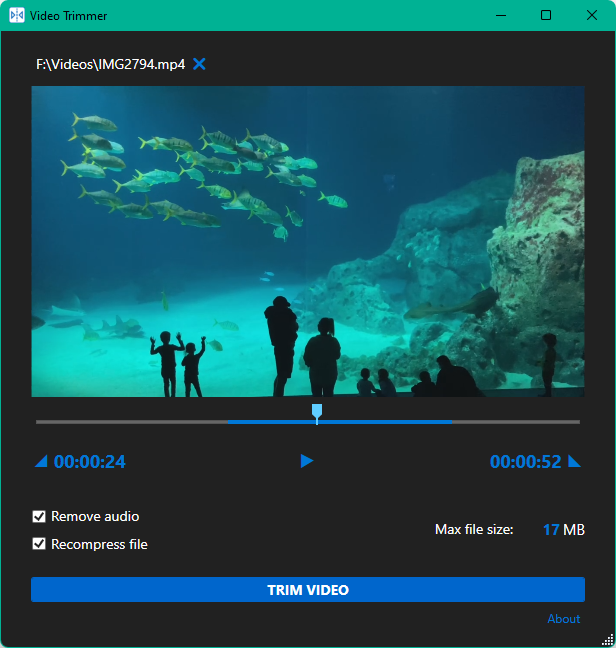
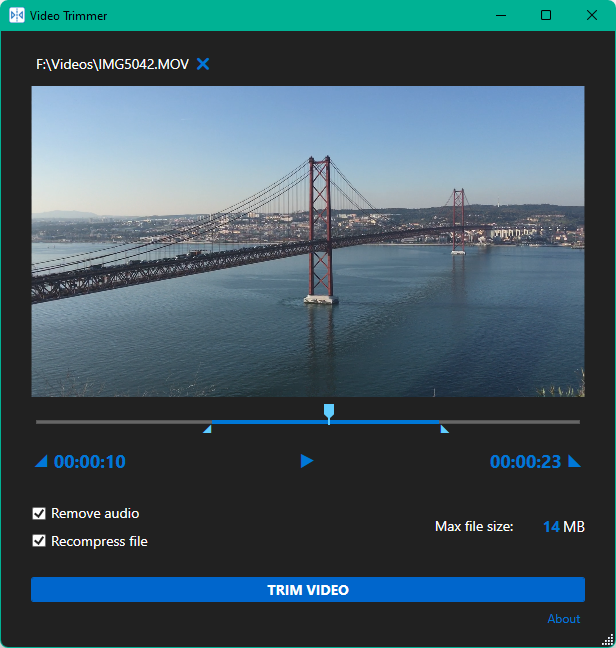
Updated changelog, features and screenshots after the release of 1.1.1. Added a new page with Keyboard Shortcuts

diff --git a/current_version.php b/current_version.php
@@ -1,1 +1,1 @@
-1.1.0
+1.1.1

diff --git a/documentation/overview/using_the_app.md b/documentation/overview/using_the_app.md
@@ -1,7 +1,7 @@
 # Using the App
 
 ## Prerequisites
-In order to run the app, the `FFmpeg.exe` file needs to be placed in the same directory as `VideoTrimmer.exe`. If you don't have `FFmpeg.exe`, you can download it from https://ffmpeg.org.
+In order to manipulate videos, Video Trimmer uses the [FFmpeg](https://ffmpeg.org) library. Video Trimmer will suggest downloading it automatically when you launch the app for the first time. If you decline, you will need to download it manually from https://ffmpeg.org and place the `FFmpeg.exe` file in the same directory as `VideoTrimmer.exe`.
 
 ## Opening Video Files
 You can open a video file in three ways:
@@ -10,9 +10,12 @@ You can open a video file in three ways:
 1. By clicking the "Select video" button in the top left corner of the Video Trimmer window and picking your file through the system file picking dialog.
 
 ## Selecting Trim Range
-With a file loaded, you can either click on the **Start** and **End** timecodes to modify them manually. Alternatively, you use the video player to navigate the timeline to the desired Start and End points and then click on the triangle buttons next to the timecodes to use the current position of the video player as Start or End:
-
+With a file loaded, you can adjust the trim range in several ways:
+1. by clicking on the **Start** and **End** text boxes to modify the values manually,
+1. by moving the video player thumb into a desired position and clicking on a triangle button next to the **Start** and **End** text boxes to use the current position of the video player as Start or End:
 ![Setting Start and End positions](https://soft.rendeer.pl/VideoTrimmer/documentation/assets/VideoTrimmer-Start-End.png)
+1. by moving the video player thumb into a desired position and using [keyboard shortcuts](https://soft.rendeer.pl/VideoTrimmer/overview/keyboard_shortcuts) **[** or **]** to use the current position of the video player as Start or End,
+1. by dragging the Start and End range markers located below the timeline.
 
 If you don't want to trim the file, you can leave the timecodes at their defaults: the Start is 00:00:00 and End is equal to the file's original duration.
 

diff --git a/documentation/overview.md b/documentation/overview.md
@@ -5,7 +5,7 @@ Video Trimmer is a standalone Graphical user interface (GUI) for FFmpeg designed
 
 ## Requirements
 * Video Trimmer requires Windows 10 or newer with support for .net applications.
-* In order to run properly, Video Trimmer requries `FFmpeg.exe` to be placed in the same directory as `VideoTrimmer.exe`. If you don't have `FFmpeg.exe`, you can download it from https://ffmpeg.org.
+* In order to manipulate videos, Video Trimmer uses the [FFmpeg](https://ffmpeg.org) library. Video Trimmer will suggest downloading it automatically when you launch the app for the first time. If you decline, you will need to download it manually from https://ffmpeg.org and place the `FFmpeg.exe` file in the same directory as `VideoTrimmer.exe`.
 
 ## Downloads
 The app can be downloaded from [GitHub](https://github.com/rendeer-pl/VideoTrimmer/releases/latest/download/VideoTrimmer.exe). Please see the [Releases](https://soft.rendeer.pl/VideoTrimmer/releases) page for more info and changelists.

diff --git a/documentation/reporting_issues.md b/documentation/reporting_issues.md
@@ -2,8 +2,4 @@
 If you think the app is missing an important feature, or one of the implemented features contains a bug, you can create an issue in the GitHub's [Issue tracker](https://github.com/rendeer-pl/VideoTrimmer/issues).
 
 ## Information to Include in the Issue Description
-1. What are the steps to reproduce the incorrect behavior?
-1. What was the result that you expected?
-1. What actually happens instead?
-
-Please be as descriptive as necessary and attach files wherever helpful. Thank you for your time!
+Whenever creating a new Issue, GitHub will recommend using one of predefined templates. Please select the most appropriate template and be as descriptive as necessary. It might also be helpful to attach files like screenshots or problematic videos. Thank you for your time!

diff --git a/documentation/releases.md b/documentation/releases.md
@@ -7,6 +7,12 @@ All Video Trimmer releases can be downloaded from [GitHub](https://github.com/re
 
 ## Change Logs
 
+### 1.1.1.220620
+* If the required FFmpeg executable is not found, the app will now suggest downloading it automatically,
+* The timeline now includes markers representing the start and end timecode. Both the markers and the timeline thumb can now be dragged to adjust the range,
+* Added basic keyboard shortcuts and improved keyboard navigation,
+* Additional visual improvements and bugfixes.
+
 ### 1.1.0.220605
 * Enabled support for MKV files,
 * Fixed positioning of UI elements, which makes it possible to resize the main window. The default size has been increased to properly accommodate 16:9 videos,

diff --git a/documentation/overview/feature_list.md b/documentation/overview/feature_list.md
@@ -1,7 +1,7 @@
 # Feature List
 
 * Opening videos with a visual preview,
-* Ability to specify in and out points via manual textbox entry,
+* Ability to specify in and out points,
 * Option to remove audio from a video,
 * Trimming videos in two ways:
     * **Without reencoding**, which preserves 100% of the quality of the source video, at the expense of not being able to precisely adjust the In and Out points (the video will be trimmed at previous keyframes). This is the fastest option, as the duration of the trimming is only limited by read and write speeds of the hard drive. As a result, processing most videos takes mere seconds.

diff --git a/documentation/overview/keyboard_shortcuts.md b/documentation/overview/keyboard_shortcuts.md
@@ -1,0 +1,10 @@
+# Keyboard Shortcuts
+
+
+| Binding | Alternative Binding | Action |
+| :---: | :---: | --- |
+| Space | | Play/Pause the video preview |
+| ← | | Move the video preview timeline one second back |
+| → | | Move the video preview one second forward |
+| [ | I | Use the current timecode as the start point |
+| ] | O | Use the current timecode as the end point |

diff --git a/documentation/_index.md b/documentation/_index.md
@@ -1,6 +1,7 @@
 * [Overview](overview)
 	* [Feature List](overview/feature_list)
 	* [Using the App](overview/using_the_app)
+	* [Keyboard Shortcuts](overview/keyboard_shortcuts)
 * [Releases](releases)
 * [Contributing](contributing)
 * [Reporting Issues](reporting_issues)
